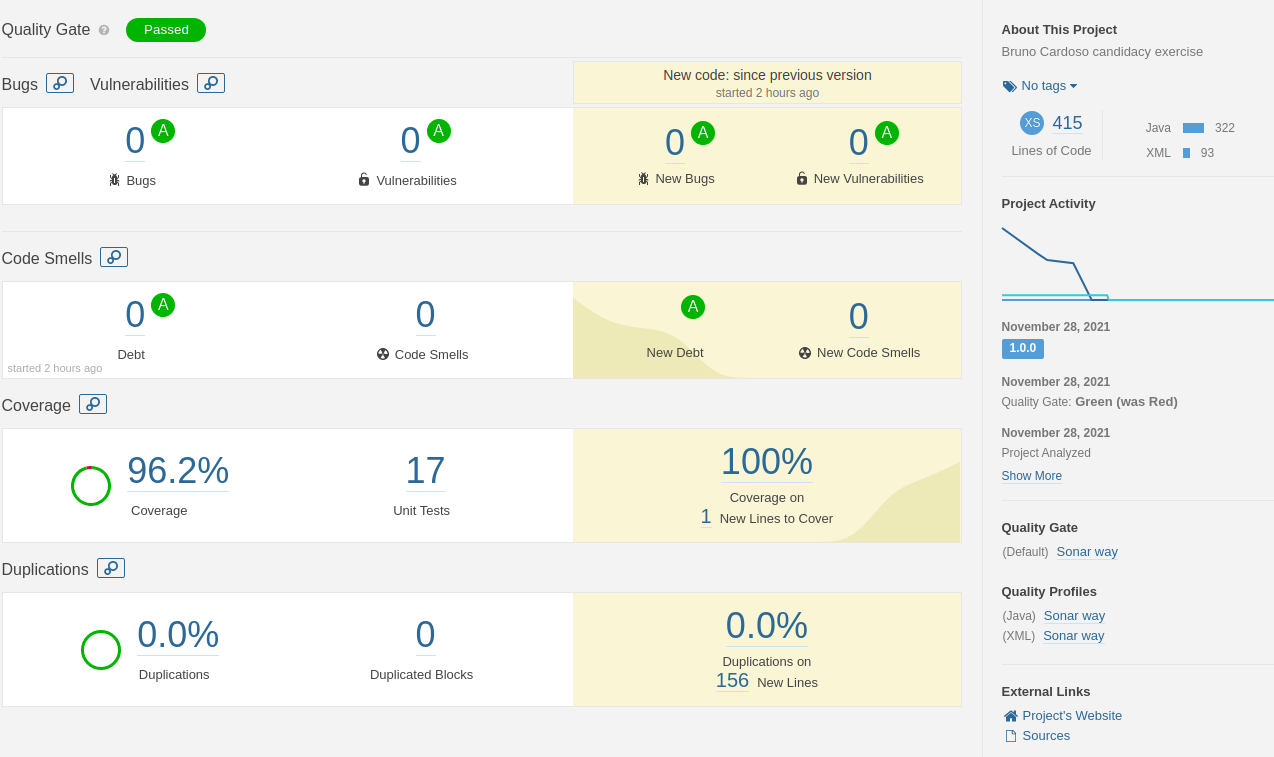
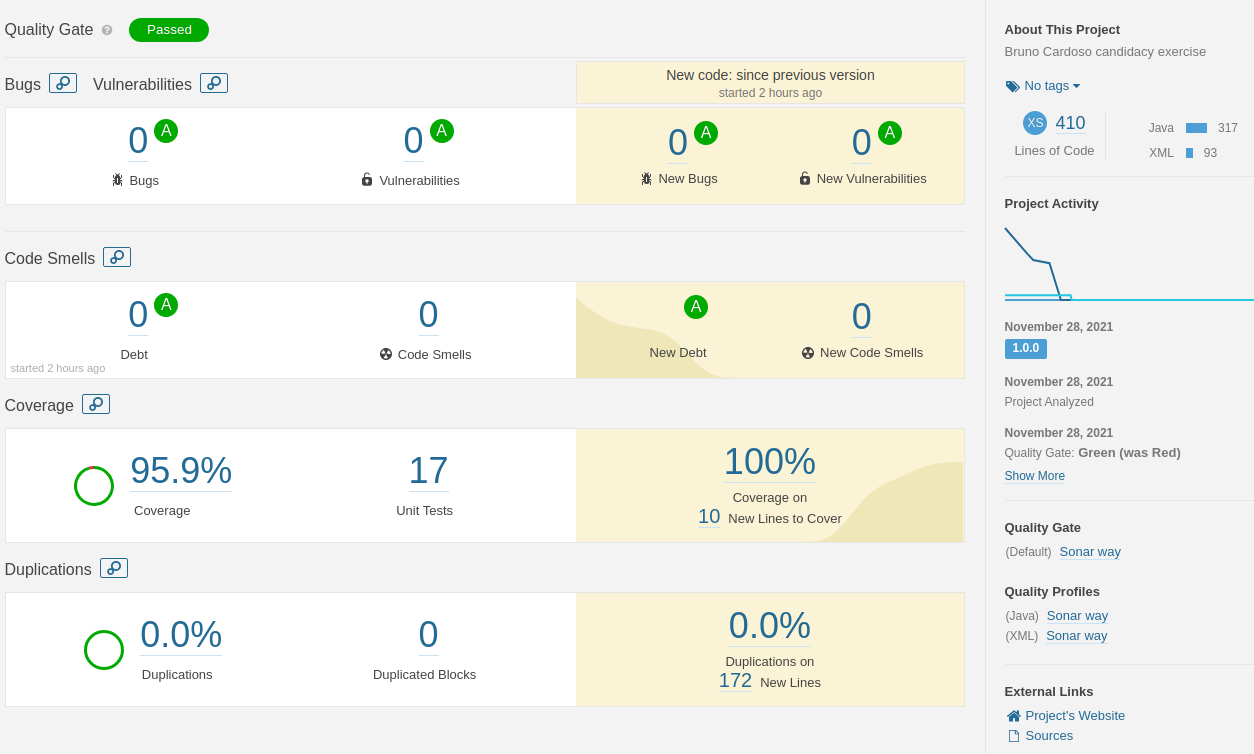
Done

diff --git a/src/main/java/com/jumia/brunocardoso/service/CustomerService.java b/src/main/java/com/jumia/brunocardoso/service/CustomerService.java
@@ -12,8 +12,6 @@ import org.springframework.data.domain.Pageable;
 import org.springframework.stereotype.Service;
 
 import javax.transaction.Transactional;
-import java.util.HashMap;
-import java.util.List;
 import java.util.Map;
 
 @Service
@@ -47,7 +45,6 @@ public class CustomerService {
 
     public Map<String, Object> readCustomersByName(CustomerRepository customerRepository, int page, int size, String name, Boolean isActive){
 
-        List<Customer> customerList;
         Pageable paging = PageRequest.of(page, size);
 
         Page<Customer> pageCustomers;
@@ -70,23 +67,13 @@ public class CustomerService {
 
         }
 
-
-        customerList = pageCustomers.getContent();
-
-        Map<String, Object> response = new HashMap<>();
-        response.put("customers", customerList);
-        response.put("currentPage", pageCustomers.getNumber());
-        response.put("totalItems", pageCustomers.getTotalElements());
-        response.put("totalPages", pageCustomers.getTotalPages());
-
-        return response;
+        return CustomerUtils.mountResponse(pageCustomers);
     }
 
     public Map<String, Object> readCustomersByCountry(ConfigProperties configProperties, CustomerRepository customerRepository, int page, int size, String country, Boolean isActive){
 
         String countryCode = CustomerUtils.checkNumberByCountry(configProperties.getCountrycodes(), country);
 
-        List<Customer> customerList;
         Pageable paging = PageRequest.of(page, size);
 
         Page<Customer> pageCustomers;
@@ -97,16 +84,7 @@ public class CustomerService {
             pageCustomers = customerRepository.findByPhoneStartsWithAndActive(paging, countryCode, isActive);
         }
 
-
-        customerList = pageCustomers.getContent();
-
-        Map<String, Object> response = new HashMap<>();
-        response.put("customers", customerList);
-        response.put("currentPage", pageCustomers.getNumber());
-        response.put("totalItems", pageCustomers.getTotalElements());
-        response.put("totalPages", pageCustomers.getTotalPages());
-
-        return response;
+        return CustomerUtils.mountResponse(pageCustomers);
     }
 
     @Transactional

diff --git a/src/main/java/com/jumia/brunocardoso/utilities/CustomerUtils.java b/src/main/java/com/jumia/brunocardoso/utilities/CustomerUtils.java
@@ -1,7 +1,15 @@
 package com.jumia.brunocardoso.utilities;
 
+import com.jumia.brunocardoso.entity.Customer;
+import org.springframework.data.domain.Page;
+
+import java.util.HashMap;
 import java.util.Map;
 
+/**
+ * @SuppressWarnings("squid:S4784") Ignore SonaQube's suggestion to make sure that using a regular expression is safe here.
+ */
+@SuppressWarnings("squid:S4784")
 public class CustomerUtils {
 
     private CustomerUtils() {
@@ -35,5 +43,16 @@ public class CustomerUtils {
             }
         }
         return null;
+    }
+
+    public static Map<String, Object> mountResponse(Page<Customer> pageCustomers){
+
+        Map<String, Object> response = new HashMap<>();
+        response.put("customers", pageCustomers.getContent());
+        response.put("currentPage", pageCustomers.getNumber());
+        response.put("totalItems", pageCustomers.getTotalElements());
+        response.put("totalPages", pageCustomers.getTotalPages());
+
+        return response;
     }
 }
